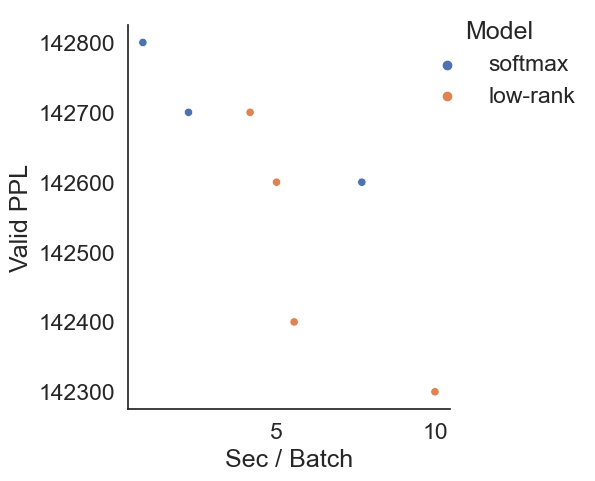
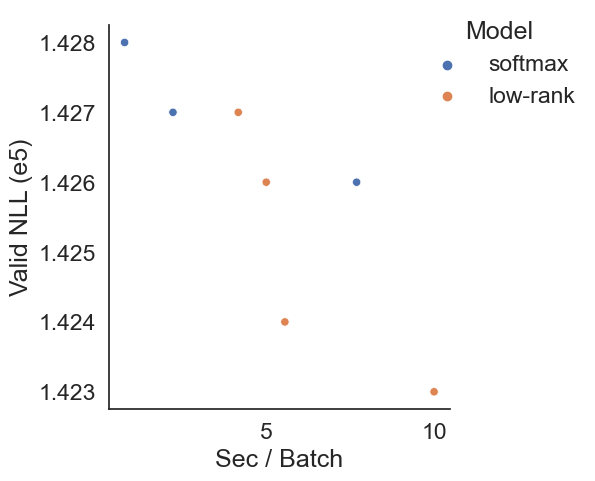
.

diff --git a/speed_accuracy_frontier.py b/speed_accuracy_frontier.py
@@ -119,15 +119,15 @@ g.savefig("pcfg-speed-accuracy.png")
 
 # HSMM
 softmax_data = np.array([
-    (1/1.28, 1.428e5, 0),
-    (1/.45, 1.427e5, 0),
-    (1/.13,  1.426e5, 0),
+    (1/1.28, 1.428, 0),
+    (1/.45, 1.427, 0),
+    (1/.13,  1.426, 0),
 ])
 lhmm_data = np.array((
-    (1/.24, 1.427e5, 1),
-    (1/.20, 1.426e5, 1),
-    (1/.18, 1.424e5, 1),
-    (1/.10, 1.423e5, 1),
+    (1/.24, 1.427, 1),
+    (1/.20, 1.426, 1),
+    (1/.18, 1.424, 1),
+    (1/.10, 1.423, 1),
 ))
 data = np.vstack((softmax_data, lhmm_data))
 
@@ -140,7 +140,7 @@ g = sns.relplot(
     data=df, x="speed", y="accuracy", hue="model", kind="scatter",
 )
 #g.set_axis_labels("log(Batch / Sec)", "Valid PPL")
-g.set_axis_labels("Sec / Batch", "Valid PPL")
+g.set_axis_labels("Sec / Batch", "Valid NLL (e5)")
 g.legend.set_title("Model")
 # replace labels
 new_labels = ['softmax', 'low-rank']
